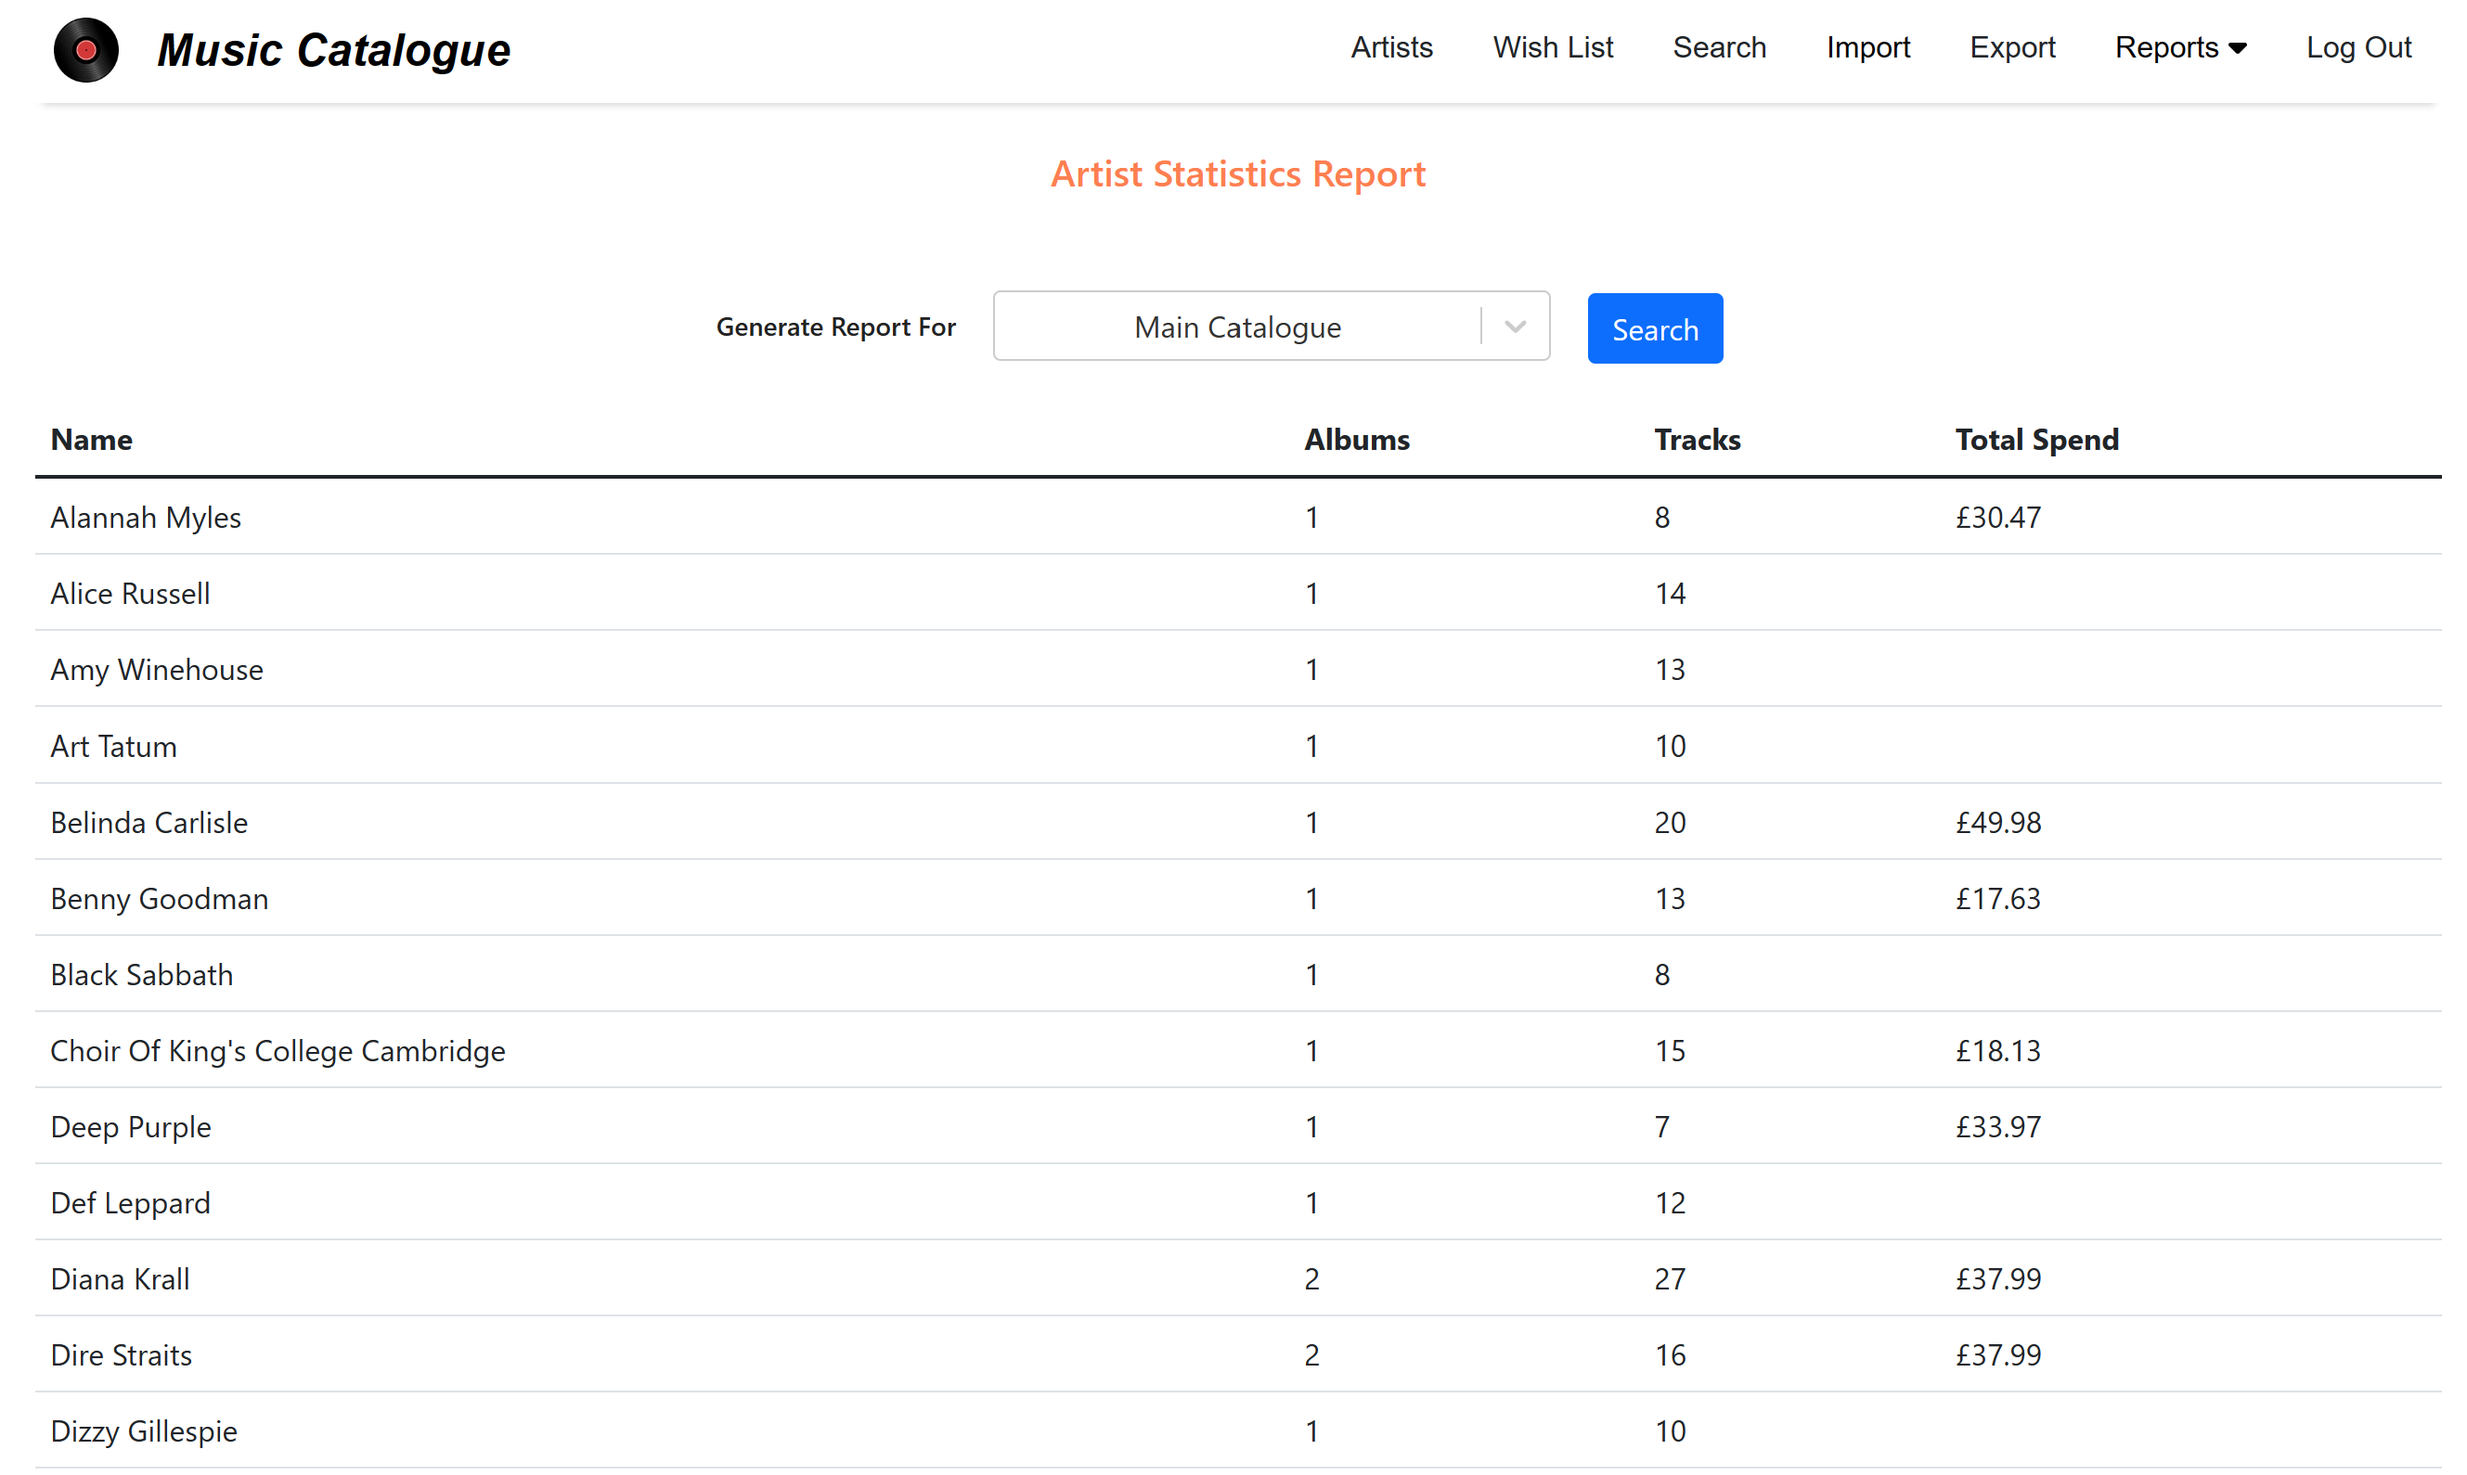
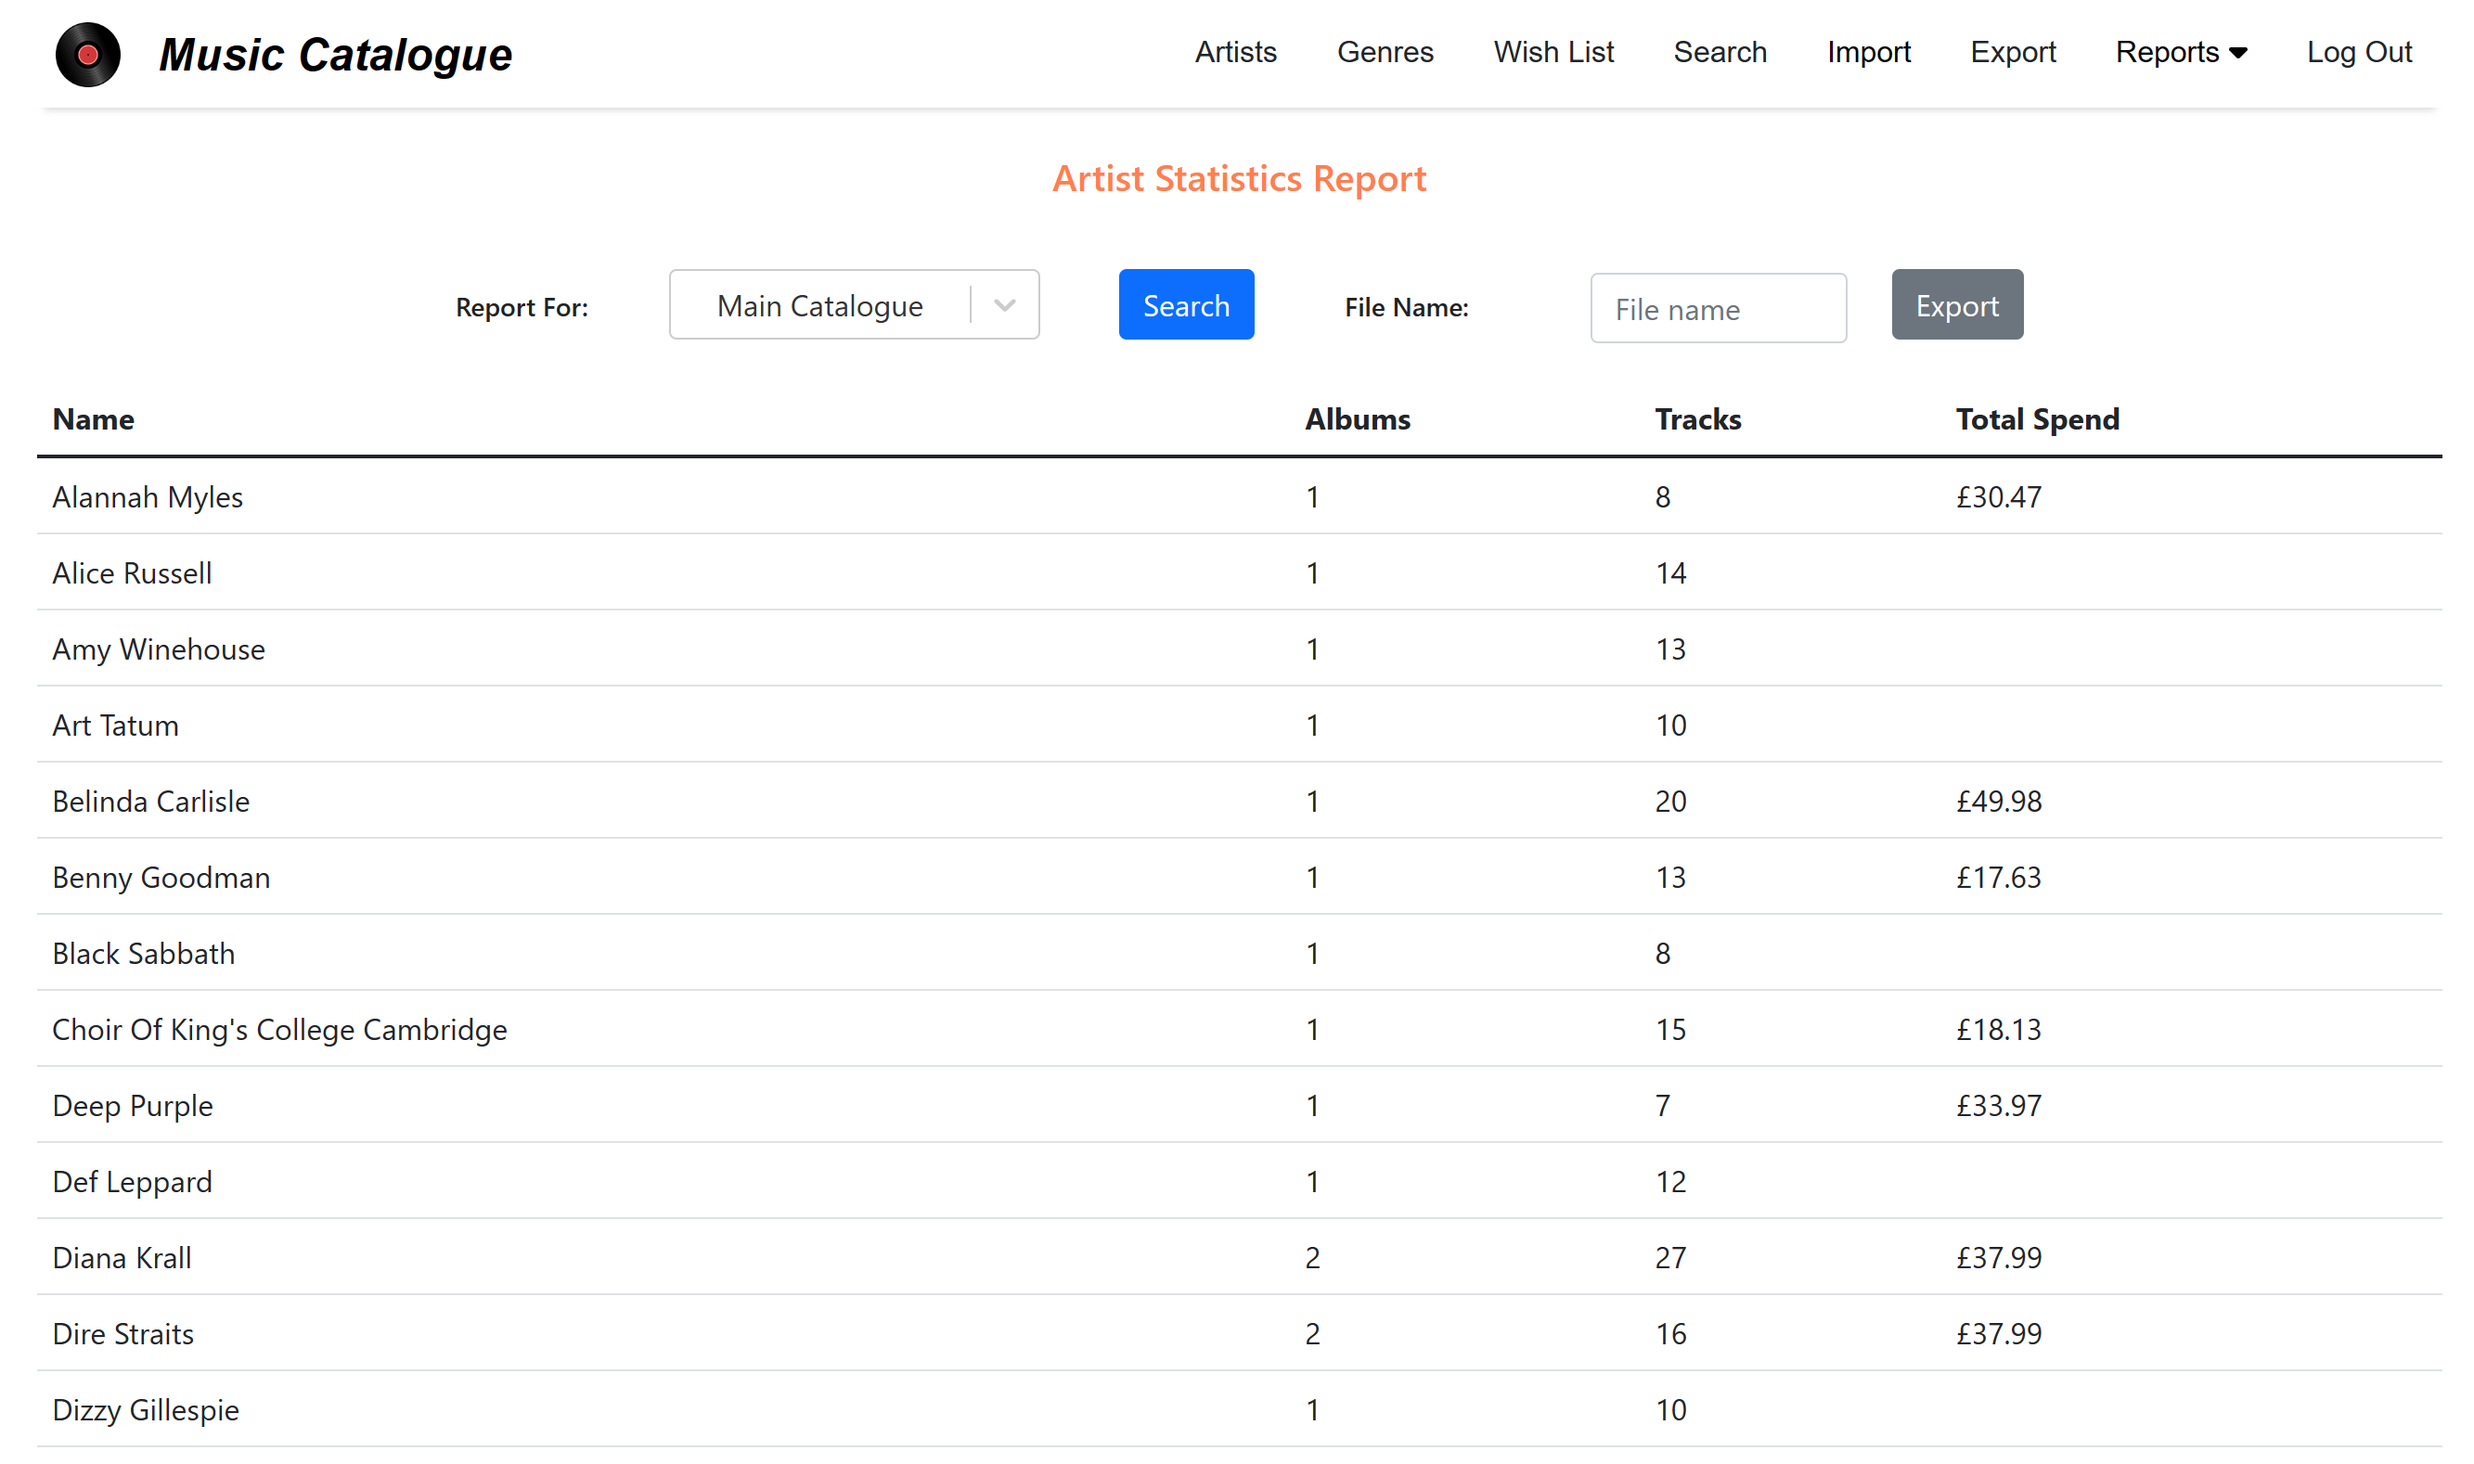
Add report export to the README

diff --git a/README.md b/README.md
@@ -250,6 +250,8 @@ MusicCatalogue.LookupTool --lookup "John Coltrane" "Blue Train" catalogue
 - Use the drop down to select the catalogue to report on, either the main catalogue or the wish list
 - If no selection is made, the report is generated for the main catalogue
 - Click on the "Search" button to view the results
+- Once the search results are returned, options to export the report in CSV format will appear
+- Enter a file name and click "Export" to export it
 
 #### Genre Statistics Report
 
@@ -260,6 +262,8 @@ MusicCatalogue.LookupTool --lookup "John Coltrane" "Blue Train" catalogue
 - Use the drop down to select the catalogue to report on, either the main catalogue or the wish list
 - If no selection is made, the report is generated for the main catalogue
 - Click on the "Search" button to view the results
+- Once the search results are returned, options to export the report in CSV format will appear
+- Enter a file name and click "Export" to export it
 
 #### Job Status Report
 
@@ -277,6 +281,9 @@ MusicCatalogue.LookupTool --lookup "John Coltrane" "Blue Train" catalogue
 - To view a report on spending by year and month, click on the "Reports > Monthly Spend" menu bar item:
 
 <img src="diagrams/reports-monthly-spend.png" alt="Monthly Spend Report" width="600">
+
+- Once the search results are returned, options to export the report in CSV format will appear
+- Enter a file name and click "Export" to export it
 
 [^ top](#musiccatalogue)
 
@@ -343,6 +350,7 @@ Task.Run(() => factory.Users.AddAsync(userName, password)).Wait();
 | ApplicationSettings | LogFile             | Path and name of the log file. If this is blank, no log file is created |
 | ApplicationSettings | MinimumLogLevel     | Minimum message severity to log (Debug, Info, Warning or Error)         |
 | ApplicationSettings | CatalogueExportPath | Path to the folder where music catalogue exports are written            |
+| ApplicationSettings | ReportsExportPath   | Path to the folder where mreport exports are written                    |
 | ApplicationSettings | ApiEndpoints        | Set of endpoint definitions for external APIs                           |
 | ApplicationSettings | ApiServiceKeys      | Set of API key definitions for external APIs                            |
 | ConnectionStrings   | MusicCatalogueDB    | SQLite connection string for the database                               |
